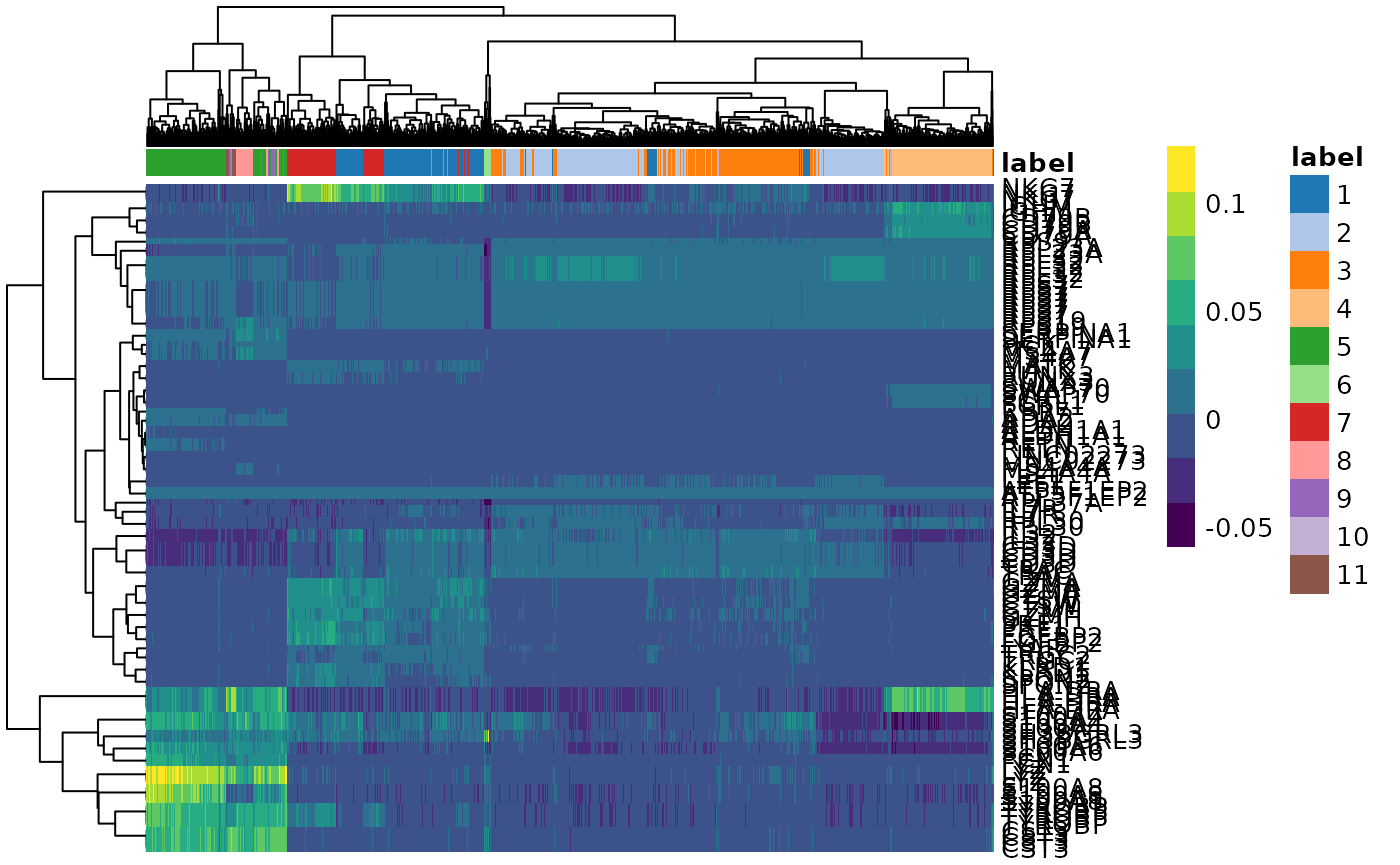
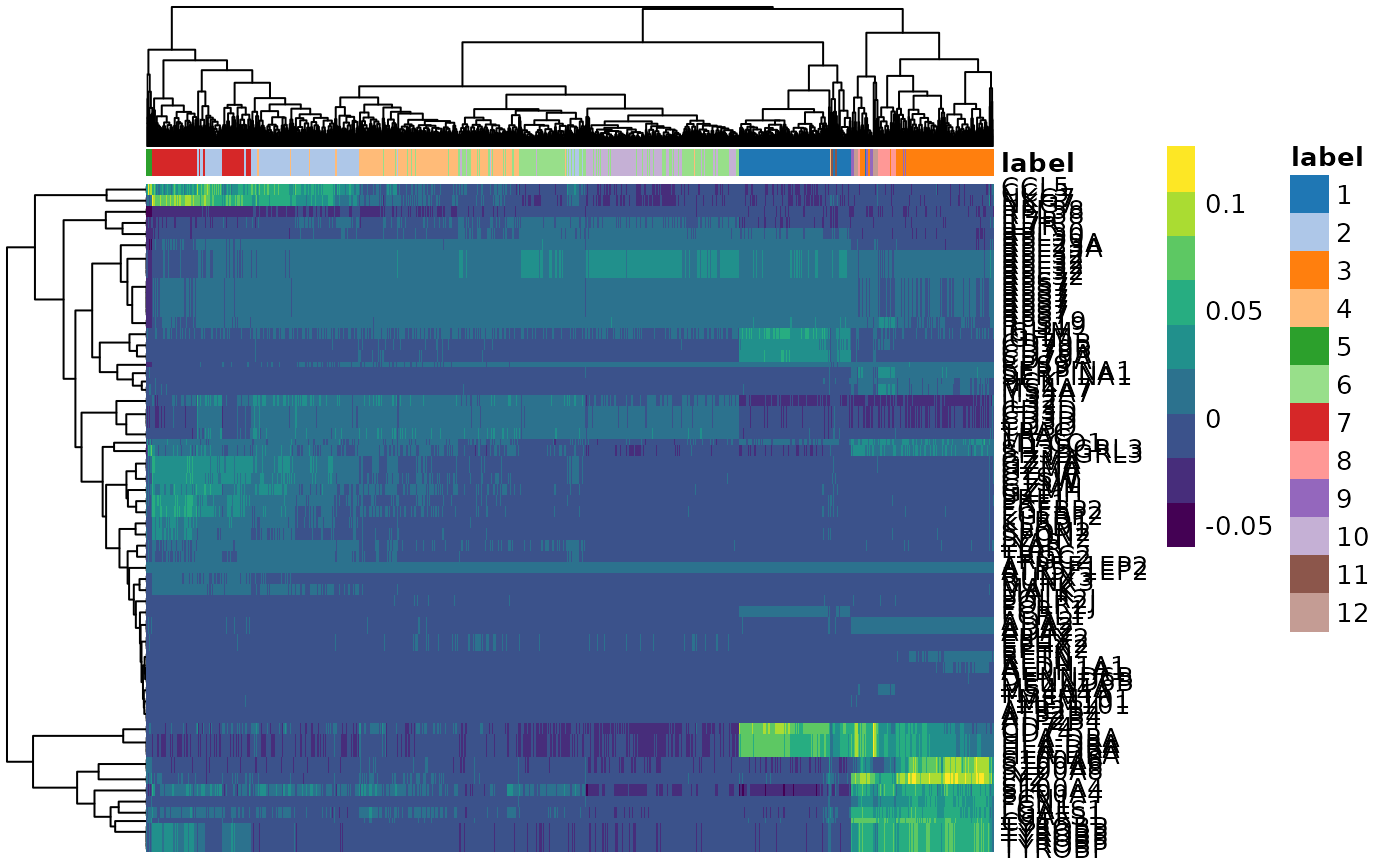
Deploying to gh-pages from  @ 5f74632a854af3c0838e5e75cc09d9114081cbc0 🚀

diff --git a/articles/tidytranscriptomics.html b/articles/tidytranscriptomics.html
@@ -985,11 +985,7 @@
 <h2 class="hasAnchor">
 <a href="#quality-control" class="anchor"></a>Quality control</h2>
 <p>A key quality control step performed in single cell analysis is assessment of the proportion of mitochondrial transcripts. A high mitochondrial count can indicate the cell is dead or dying and is thus poor quality and should be filtered out.</p>
-<div id="nesting" class="section level3">
-<h3 class="hasAnchor">
-<a href="#nesting" class="anchor"></a>Nesting</h3>
-<p>A powerful tool tidySingleCellExperiment enables us to use with our single-cell data is tidyverse’s <a href="https://rstudio-education.github.io/tidyverse-cookbook/transform-tables.html#nest-a-data-frame">nest</a>. Nesting allows us to easily perform independent analyses on subsets of the data. For example, our data contains 10 single-cell datasets from different sources, we can nest by dataset and analyse the mitochondrial content for each.</p>
-<p>To demonstrate the power of nesting we’ll first show the mitochondrial analysis for one of the 10 datasets.</p>
+<p>We’ll first show the mitochondrial analysis for one of the 10 datasets.</p>
 <div class="sourceCode" id="cb38"><pre class="downlit sourceCode r">
 <code class="sourceCode R"><span class="va">one_dataset</span> <span class="op">&lt;-</span> <span class="va">pbmc</span> <span class="op">%&gt;%</span> <span class="fu"><a href="https://rdrr.io/pkg/tidySingleCellExperiment/man/dplyr-methods.html">filter</a></span><span class="op">(</span><span class="va">dataset</span> <span class="op">==</span><span class="st">"GSE115189"</span><span class="op">)</span></code></pre></div>
 <p>We get the chromosomal location for each gene in the dataset so we can identify the mitochondrial genes. We’ll get a warning that some of the ids don’t find a match but it should be just a small proportion.</p>
@@ -1081,6 +1077,11 @@
 <span class="co">#&gt; #   subsets_Mito_detected &lt;int&gt;, subsets_Mito_percent &lt;dbl&gt;, total &lt;dbl&gt;,</span>
 <span class="co">#&gt; #   high_mitochondrion &lt;otlr.flt&gt;</span></code></pre></div>
 <p>The steps above perform the mitochondrial QC analysis for one dataset. To analyse all 10 datasets we could repeat the steps for each dataset or create a function and apply it to each dataset. However, a more efficient way is to use nesting. We can nest our data by dataset.</p>
+<div id="nesting" class="section level3">
+<h3 class="hasAnchor">
+<a href="#nesting" class="anchor"></a>Nesting</h3>
+<p>A powerful tool tidySingleCellExperiment enables us to use with our single-cell data is tidyverse’s <a href="https://rstudio-education.github.io/tidyverse-cookbook/transform-tables.html#nest-a-data-frame">nest</a>. Nesting allows us to easily perform independent analyses on subsets of the data. For example, our data contains 10 single-cell datasets from different sources, we can nest by dataset and analyse the mitochondrial content for each.</p>
+<p>To demonstrate the power of nesting</p>
 <p><img src="../inst/vignettes/nesting.png" width="600px"></p>
 <div class="sourceCode" id="cb43"><pre class="downlit sourceCode r">
 <code class="sourceCode R"><span class="va">pbmc_nested</span> <span class="op">&lt;-</span> <span class="va">pbmc</span> <span class="op">%&gt;%</span> 
@@ -1258,35 +1259,36 @@
 <span class="co">#&gt; [90m# Features=51958 | Assays=reconstructed[39m</span>
 <span class="co">#&gt;    cell       label batch corrected1 corrected2 corrected3 corrected4 corrected5</span>
 <span class="co">#&gt;    &lt;chr&gt;      &lt;fct&gt; &lt;int&gt;      &lt;dbl&gt;      &lt;dbl&gt;      &lt;dbl&gt;      &lt;dbl&gt;      &lt;dbl&gt;</span>
-<span class="co">#&gt;  1 CCAGTCACA… 5         1   -0.0644      0.334      0.0725     0.0560    0.0739 </span>
-<span class="co">#&gt;  2 ATGAGCACA… 2         1   -0.178      -0.0166     0.122      0.122    -0.0233 </span>
-<span class="co">#&gt;  3 TATGAATGG… 7         1   -0.0604      0.0357    -0.127      0.293    -0.0128 </span>
-<span class="co">#&gt;  4 CATATAGAC… 11        1   -0.0760      0.282      0.121      0.0546    0.00285</span>
-<span class="co">#&gt;  5 GAGGCAGAC… 1         1   -0.0758      0.0424    -0.0977     0.259    -0.0248 </span>
-<span class="co">#&gt;  6 AGCTGCCTT… 3         1   -0.117       0.0242     0.0729     0.159    -0.0170 </span>
-<span class="co">#&gt;  7 TGATTAGAT… 4         1   -0.146       0.0752     0.143      0.0488   -0.0915 </span>
-<span class="co">#&gt;  8 ACGAAGCTC… 4         1   -0.119       0.108      0.127      0.0505   -0.0624 </span>
-<span class="co">#&gt;  9 CGGCATCTT… 5         1   -0.00943     0.407      0.0466     0.0803    0.0522 </span>
-<span class="co">#&gt; 10 ATAGCGTGC… 5         1   -0.0561      0.367      0.105      0.0589    0.0610 </span>
+<span class="co">#&gt;  1 CCAGTCACA… 3         1   -0.0644      0.334      0.0725     0.0559    0.0739 </span>
+<span class="co">#&gt;  2 ATGAGCACA… 6         1   -0.178      -0.0166     0.122      0.122    -0.0233 </span>
+<span class="co">#&gt;  3 TATGAATGG… 7         1   -0.0602      0.0356    -0.127      0.293    -0.0128 </span>
+<span class="co">#&gt;  4 CATATAGAC… 12        1   -0.0760      0.282      0.121      0.0546    0.00286</span>
+<span class="co">#&gt;  5 GAGGCAGAC… 2         1   -0.0756      0.0424    -0.0977     0.259    -0.0248 </span>
+<span class="co">#&gt;  6 AGCTGCCTT… 4         1   -0.117       0.0242     0.0729     0.159    -0.0170 </span>
+<span class="co">#&gt;  7 TGATTAGAT… 1         1   -0.146       0.0752     0.143      0.0488   -0.0915 </span>
+<span class="co">#&gt;  8 ACGAAGCTC… 1         1   -0.119       0.108      0.127      0.0505   -0.0624 </span>
+<span class="co">#&gt;  9 CGGCATCTT… 3         1   -0.00934     0.407      0.0466     0.0803    0.0522 </span>
+<span class="co">#&gt; 10 ATAGCGTGC… 3         1   -0.0561      0.367      0.105      0.0589    0.0610 </span>
 <span class="co">#&gt; # … with 2,889 more rows</span></code></pre></div>
 <p>Thanks to tidySingleCellExperiment we can interrogate the object with tidyverse commands and use <code>count</code> to count the number of cells in each cluster.</p>
 <div class="sourceCode" id="cb51"><pre class="downlit sourceCode r">
 <code class="sourceCode R"><span class="va">pbmc</span> <span class="op">%&gt;%</span> <span class="fu"><a href="https://rdrr.io/pkg/tidySingleCellExperiment/man/count.html">count</a></span><span class="op">(</span><span class="va">label</span><span class="op">)</span>
 <span class="co">#&gt; tidySingleCellExperiment says: A data frame is returned for independent data analysis.</span>
-<span class="co">#&gt; # A tibble: 11 x 2</span>
+<span class="co">#&gt; # A tibble: 12 x 2</span>
 <span class="co">#&gt;    label     n</span>
 <span class="co">#&gt;    &lt;fct&gt; &lt;int&gt;</span>
-<span class="co">#&gt;  1 1       481</span>
-<span class="co">#&gt;  2 2       753</span>
-<span class="co">#&gt;  3 3       545</span>
-<span class="co">#&gt;  4 4       350</span>
-<span class="co">#&gt;  5 5       339</span>
-<span class="co">#&gt;  6 6        21</span>
-<span class="co">#&gt;  7 7       255</span>
+<span class="co">#&gt;  1 1       367</span>
+<span class="co">#&gt;  2 2       478</span>
+<span class="co">#&gt;  3 3       339</span>
+<span class="co">#&gt;  4 4       485</span>
+<span class="co">#&gt;  5 5        21</span>
+<span class="co">#&gt;  6 6       492</span>
+<span class="co">#&gt;  7 7       257</span>
 <span class="co">#&gt;  8 8        74</span>
 <span class="co">#&gt;  9 9        41</span>
-<span class="co">#&gt; 10 10       14</span>
-<span class="co">#&gt; 11 11       26</span></code></pre></div>
+<span class="co">#&gt; 10 10      305</span>
+<span class="co">#&gt; 11 11       14</span>
+<span class="co">#&gt; 12 12       26</span></code></pre></div>
 </div>
 <div id="reduce-dimensions" class="section level2">
 <h2 class="hasAnchor">
@@ -1367,20 +1369,21 @@
   <span class="fu"><a href="https://rdrr.io/pkg/tidySingleCellExperiment/man/dplyr-methods.html">select</a></span><span class="op">(</span><span class="va">label</span>, <span class="va">first.labels</span><span class="op">)</span>
 
 <span class="va">cell_type</span>
-<span class="co">#&gt; # A tibble: 11 x 2</span>
+<span class="co">#&gt; # A tibble: 12 x 2</span>
 <span class="co">#&gt;    label first.labels   </span>
 <span class="co">#&gt;    &lt;chr&gt; &lt;chr&gt;          </span>
-<span class="co">#&gt;  1 1     NK cells       </span>
-<span class="co">#&gt;  2 2     Skeletal muscle</span>
-<span class="co">#&gt;  3 3     Fibroblasts    </span>
-<span class="co">#&gt;  4 4     B-cells        </span>
-<span class="co">#&gt;  5 5     Monocytes      </span>
-<span class="co">#&gt;  6 6     Smooth muscle  </span>
+<span class="co">#&gt;  1 1     B-cells        </span>
+<span class="co">#&gt;  2 2     NK cells       </span>
+<span class="co">#&gt;  3 3     Monocytes      </span>
+<span class="co">#&gt;  4 4     Fibroblasts    </span>
+<span class="co">#&gt;  5 5     Smooth muscle  </span>
+<span class="co">#&gt;  6 6     Skeletal muscle</span>
 <span class="co">#&gt;  7 7     NK cells       </span>
 <span class="co">#&gt;  8 8     Neutrophils    </span>
 <span class="co">#&gt;  9 9     Macrophages    </span>
-<span class="co">#&gt; 10 10    B-cells        </span>
-<span class="co">#&gt; 11 11    Monocytes</span></code></pre></div>
+<span class="co">#&gt; 10 10    Skeletal muscle</span>
+<span class="co">#&gt; 11 11    B-cells        </span>
+<span class="co">#&gt; 12 12    Monocytes</span></code></pre></div>
 <p>We join the cell type information to our pbmc data.</p>
 <div class="sourceCode" id="cb56"><pre class="downlit sourceCode r">
 <code class="sourceCode R"><span class="co"># Join cell type info</span>
@@ -1394,36 +1397,37 @@
 <span class="co">#&gt; [90m# Features=51958 | Assays=reconstructed[39m</span>
 <span class="co">#&gt;    cell  first.labels batch label corrected1 corrected2 corrected3 corrected4</span>
 <span class="co">#&gt;    &lt;chr&gt; &lt;chr&gt;        &lt;int&gt; &lt;chr&gt;      &lt;dbl&gt;      &lt;dbl&gt;      &lt;dbl&gt;      &lt;dbl&gt;</span>
-<span class="co">#&gt;  1 CCAG… Monocytes        1 5       -0.0644      0.334      0.0725     0.0560</span>
-<span class="co">#&gt;  2 ATGA… Skeletal mu…     1 2       -0.178      -0.0166     0.122      0.122 </span>
-<span class="co">#&gt;  3 TATG… NK cells         1 7       -0.0604      0.0357    -0.127      0.293 </span>
-<span class="co">#&gt;  4 CATA… Monocytes        1 11      -0.0760      0.282      0.121      0.0546</span>
-<span class="co">#&gt;  5 GAGG… NK cells         1 1       -0.0758      0.0424    -0.0977     0.259 </span>
-<span class="co">#&gt;  6 AGCT… Fibroblasts      1 3       -0.117       0.0242     0.0729     0.159 </span>
-<span class="co">#&gt;  7 TGAT… B-cells          1 4       -0.146       0.0752     0.143      0.0488</span>
-<span class="co">#&gt;  8 ACGA… B-cells          1 4       -0.119       0.108      0.127      0.0505</span>
-<span class="co">#&gt;  9 CGGC… Monocytes        1 5       -0.00943     0.407      0.0466     0.0803</span>
-<span class="co">#&gt; 10 ATAG… Monocytes        1 5       -0.0561      0.367      0.105      0.0589</span>
+<span class="co">#&gt;  1 CCAG… Monocytes        1 3       -0.0644      0.334      0.0725     0.0559</span>
+<span class="co">#&gt;  2 ATGA… Skeletal mu…     1 6       -0.178      -0.0166     0.122      0.122 </span>
+<span class="co">#&gt;  3 TATG… NK cells         1 7       -0.0602      0.0356    -0.127      0.293 </span>
+<span class="co">#&gt;  4 CATA… Monocytes        1 12      -0.0760      0.282      0.121      0.0546</span>
+<span class="co">#&gt;  5 GAGG… NK cells         1 2       -0.0756      0.0424    -0.0977     0.259 </span>
+<span class="co">#&gt;  6 AGCT… Fibroblasts      1 4       -0.117       0.0242     0.0729     0.159 </span>
+<span class="co">#&gt;  7 TGAT… B-cells          1 1       -0.146       0.0752     0.143      0.0488</span>
+<span class="co">#&gt;  8 ACGA… B-cells          1 1       -0.119       0.108      0.127      0.0505</span>
+<span class="co">#&gt;  9 CGGC… Monocytes        1 3       -0.00934     0.407      0.0466     0.0803</span>
+<span class="co">#&gt; 10 ATAG… Monocytes        1 3       -0.0561      0.367      0.105      0.0589</span>
 <span class="co">#&gt; # … with 2,889 more rows, and 4 more variables: corrected5 &lt;dbl&gt;, UMAP1 &lt;dbl&gt;,</span>
 <span class="co">#&gt; #   UMAP2 &lt;dbl&gt;, UMAP3 &lt;dbl&gt;</span></code></pre></div>
 <p>We can easily summarise the results. For example, we can see how cell type classification overlaps with cluster classification.</p>
 <div class="sourceCode" id="cb57"><pre class="downlit sourceCode r">
 <code class="sourceCode R"><span class="va">pbmc</span> <span class="op">%&gt;%</span> <span class="fu"><a href="https://rdrr.io/pkg/tidySingleCellExperiment/man/count.html">count</a></span><span class="op">(</span><span class="va">label</span>, <span class="va">first.labels</span><span class="op">)</span>
 <span class="co">#&gt; tidySingleCellExperiment says: A data frame is returned for independent data analysis.</span>
-<span class="co">#&gt; # A tibble: 11 x 3</span>
+<span class="co">#&gt; # A tibble: 12 x 3</span>
 <span class="co">#&gt;    label first.labels        n</span>
 <span class="co">#&gt;    &lt;chr&gt; &lt;chr&gt;           &lt;int&gt;</span>
-<span class="co">#&gt;  1 1     NK cells          481</span>
-<span class="co">#&gt;  2 10    B-cells            14</span>
-<span class="co">#&gt;  3 11    Monocytes          26</span>
-<span class="co">#&gt;  4 2     Skeletal muscle   753</span>
-<span class="co">#&gt;  5 3     Fibroblasts       545</span>
-<span class="co">#&gt;  6 4     B-cells           350</span>
-<span class="co">#&gt;  7 5     Monocytes         339</span>
-<span class="co">#&gt;  8 6     Smooth muscle      21</span>
-<span class="co">#&gt;  9 7     NK cells          255</span>
-<span class="co">#&gt; 10 8     Neutrophils        74</span>
-<span class="co">#&gt; 11 9     Macrophages        41</span></code></pre></div>
+<span class="co">#&gt;  1 1     B-cells           367</span>
+<span class="co">#&gt;  2 10    Skeletal muscle   305</span>
+<span class="co">#&gt;  3 11    B-cells            14</span>
+<span class="co">#&gt;  4 12    Monocytes          26</span>
+<span class="co">#&gt;  5 2     NK cells          478</span>
+<span class="co">#&gt;  6 3     Monocytes         339</span>
+<span class="co">#&gt;  7 4     Fibroblasts       485</span>
+<span class="co">#&gt;  8 5     Smooth muscle      21</span>
+<span class="co">#&gt;  9 6     Skeletal muscle   492</span>
+<span class="co">#&gt; 10 7     NK cells          257</span>
+<span class="co">#&gt; 11 8     Neutrophils        74</span>
+<span class="co">#&gt; 12 9     Macrophages        41</span></code></pre></div>
 </div>
 </div>
 <div id="pseudobulk-analyses" class="section level2">
